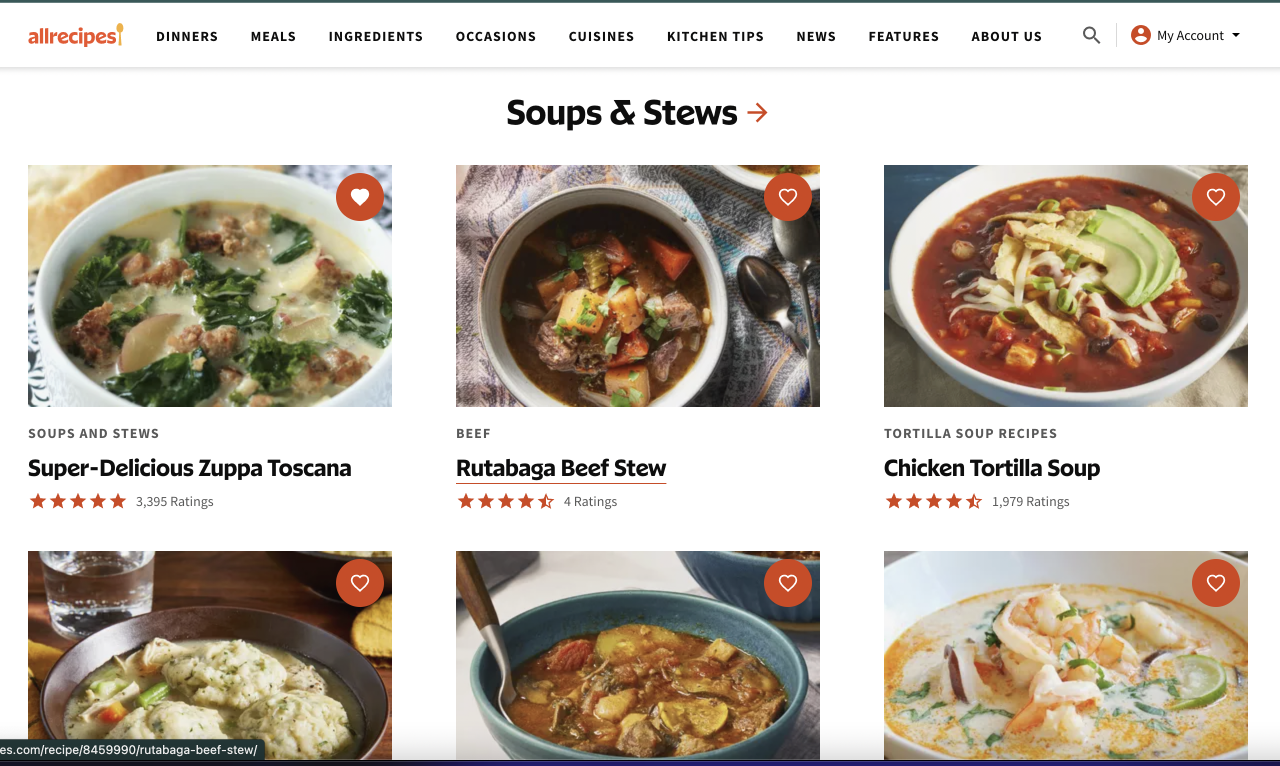
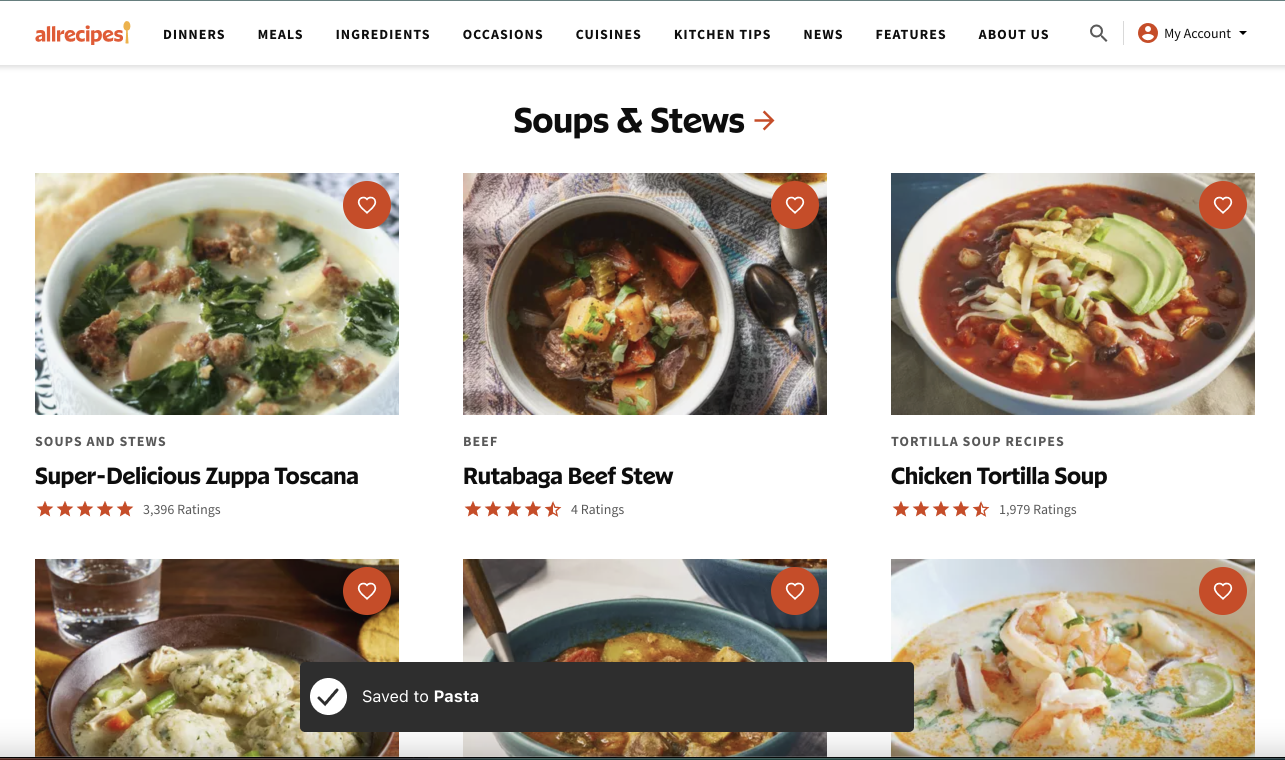
Final

diff --git a/idm241/final/index.html b/idm241/final/index.html
@@ -11,7 +11,7 @@
 
 <body>
   <wrapper>
-    <h1><a href="https://www.allrecipes.com/" target="blank">Allrecipes</a> Microinteraction Description</h1>
+    <h1><a href="https://www.allrecipes.com/" target="blank">Allrecipes</a> Microinteraction Final Description</h1>
     <!-- <div class="buttoncontainer">
     <div class="button">
       <input type="checkbox" id="liked">
@@ -29,6 +29,7 @@
           <li>Click favorite icon on recipe card</li>
           <li>Click on 'Add to collection' button <ul><li>Located on the right side of the toast notification that appears when the user clicks the favorite icon</li></ul></li>
           <li>Click X icon to close 'Add to collection' menu</li>
+          <li>Click collection item on 'Add to collection' menu</li>
         </ul>
       </div>
 
@@ -61,6 +62,13 @@
           <li>Toast notification that says "Removed from liked'" slides up and expands from bottom of screen, stays for 10 seconds, and then slides down out of the screen</li>
         </ul>
         <p>Click on 'Add to collection' button</p>
+        <ul>
+          <li>Menu of possible collections slides up from bottom of screen </li>
+        </ul>
+        <p>Click on a category item on 'Add to collection' menu</p>
+        <ul>
+          <li>Toast notification that says "Saved from liked'" slides up and expands from bottom of screen, stays for 10 seconds, and then slides down out of the screen</li>
+        </ul>
         <ul>
           <li>Menu of possible collections slides up from bottom of screen </li>
         </ul>
@@ -98,6 +106,10 @@
           <li>Favorite icon pressed = false is saved in backend</li>
           <li>Toast notification that says "Removed from liked'" slides up and expands from bottom of screen, stays for 10 seconds, and then slides down out of the screen</li>
         </ul>
+        <p>Click on a category item on 'Add to collection' menu</p>
+        <ul>
+          <li>Toast notification that says "Saved from liked'" slides up and expands from bottom of screen, stays for 10 seconds, and then slides down out of the screen</li>
+        </ul>
         <p>Click on 'Add to collection' button</p>
         <ul>
           <li>Menu of possible collections slides up from bottom of screen </li>
@@ -118,16 +130,19 @@
     </div>
 
     <div class="images">
-      <h1>Images: Save a recipe</h1>
+      <h1>Hover states</h1>
+      <img src="img/hover.png">
+      <h1>Click: Save a recipe</h1>
       <img src="img/figma/Add 1.png">
       <img src="img/figma/Add 2.png">
-      <h1>Images: Remove a recipe</h1>
+      <h1>Click: Remove a recipe</h1>
       <img src="img/figma/Remove 1.png">
       <img src="img/figma/Remove 2.png">
-      <h1>Images: Add to Collection</h1>
+      <h1>Click: Add to Collection</h1>
       <img src="img/figma/Collection 1.png">
       <img src="img/figma/Collection 2.png">
-      <img src="img/figma/Collection 3.png">
+      <img src="img/figma/Collection 2.1.png">
+      <!-- <img src="img/figma/Collection 3.png"> -->
       <img src="img/figma/Collection 4.png">
      
     </div>
